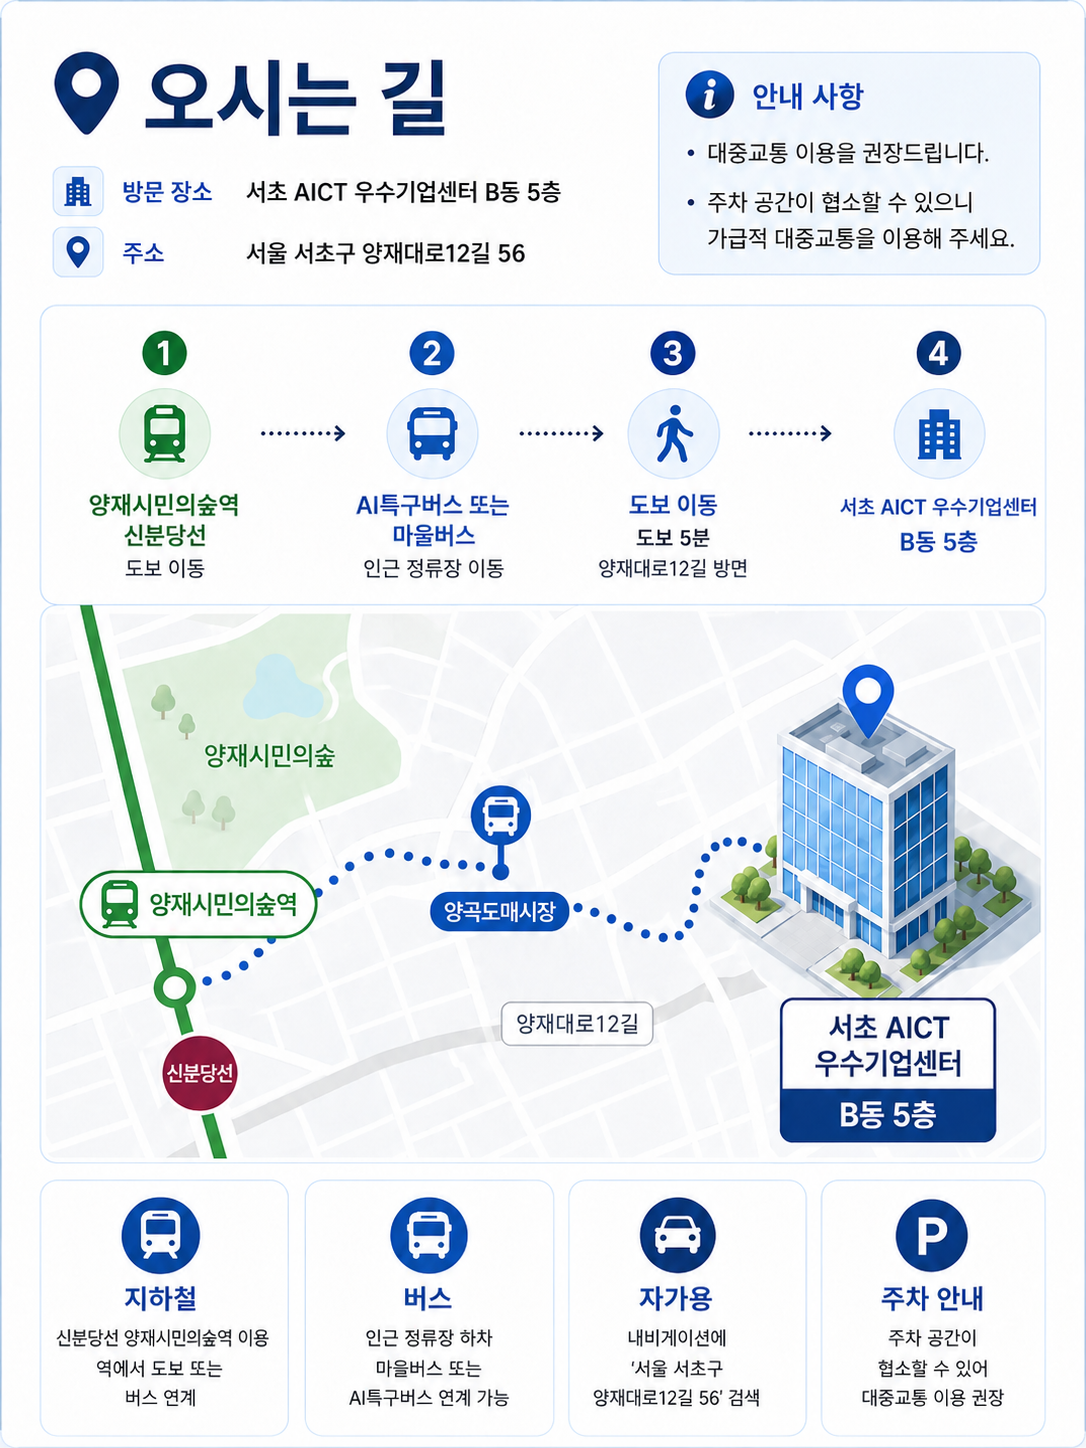
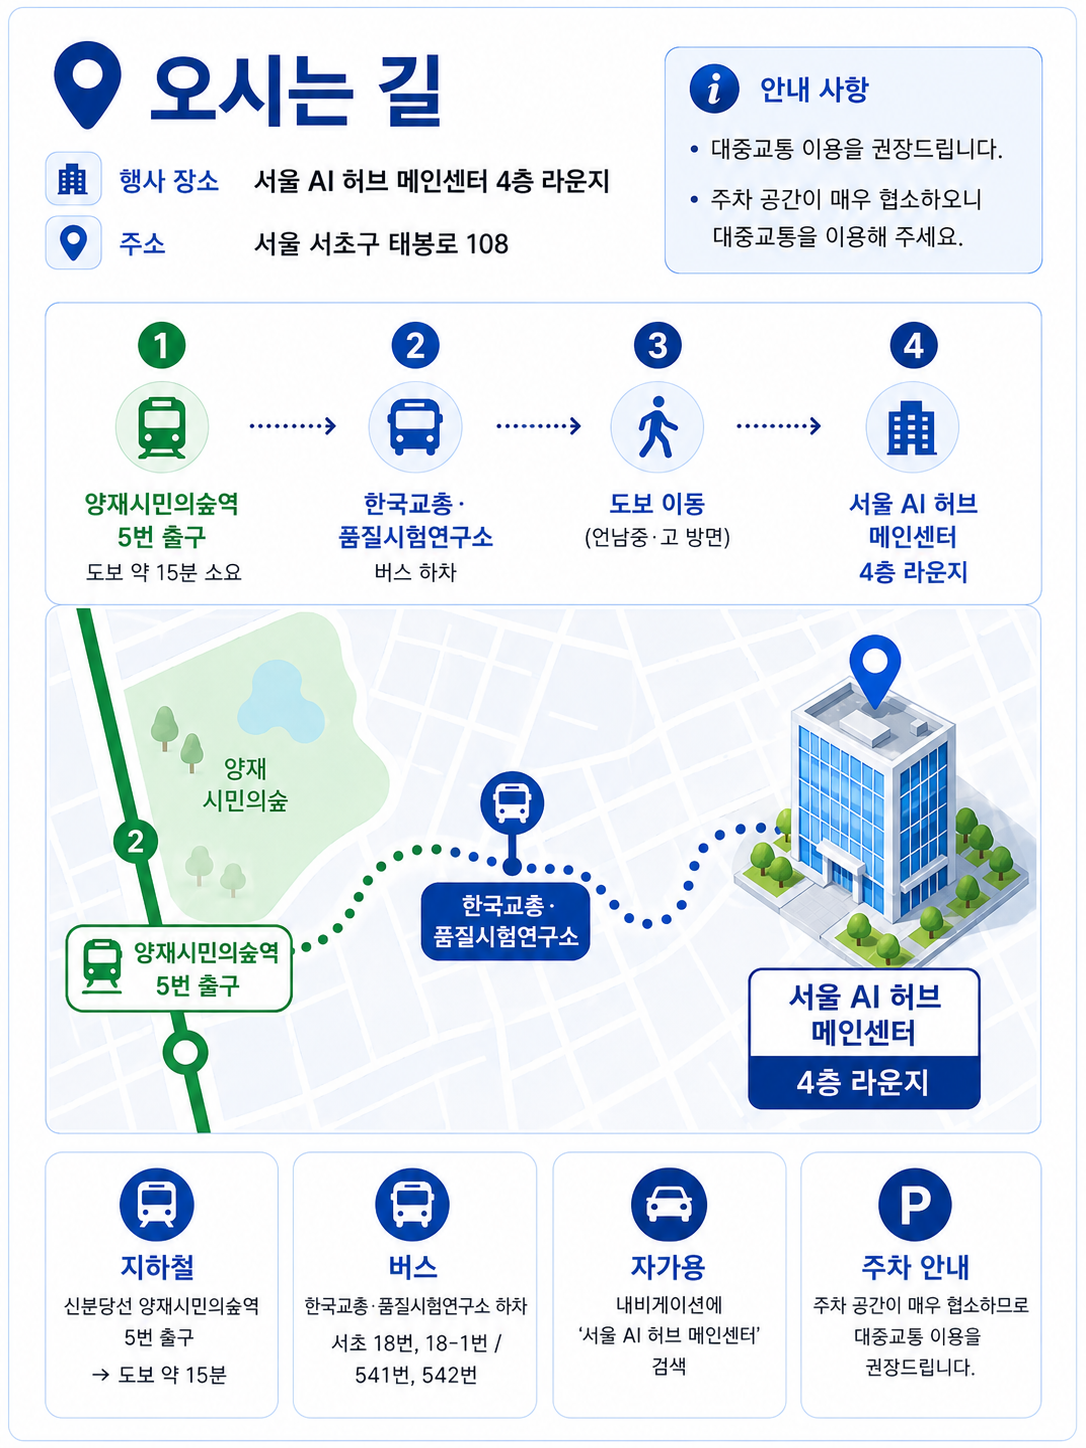
오시는 길 주소 및 레이아웃 정리

diff --git a/styles.css b/styles.css
@@ -9,6 +9,7 @@
   --bg: #f8fafc;
   --white: #fff;
   --purple: #6d35b7;
+  --frame: 1480px;
 }
 
 * { box-sizing: border-box; }
@@ -22,6 +23,13 @@ body {
 }
 a { color: inherit; text-decoration: none; }
 
+.site-header,
+main,
+.footer {
+  width: min(100%, var(--frame));
+  margin-inline: auto;
+}
+
 .site-header {
   position: sticky;
   top: 0;
@@ -30,7 +38,7 @@ a { color: inherit; text-decoration: none; }
   justify-content: space-between;
   align-items: center;
   gap: 24px;
-  padding: 18px clamp(18px, 4vw, 64px);
+  padding: 18px clamp(18px, 3vw, 44px);
   background: rgba(248,250,252,.82);
   backdrop-filter: blur(18px);
   border-bottom: 1px solid rgba(15,23,42,.08);
@@ -55,7 +63,7 @@ a { color: inherit; text-decoration: none; }
   grid-template-columns: minmax(0, .82fr) minmax(520px, 1.18fr);
   align-items: center;
   gap: clamp(32px, 6vw, 90px);
-  padding: 84px clamp(20px, 5vw, 82px) 110px;
+  padding: 84px clamp(20px, 3vw, 44px) 110px;
   background:
     radial-gradient(circle at 78% 24%, rgba(56,189,248,.2), transparent 28%),
     linear-gradient(120deg, #fff 0%, #eff6ff 52%, #f8fafc 100%);
@@ -123,7 +131,7 @@ a { color: inherit; text-decoration: none; }
 .hero-timeline strong { display: block; color: var(--navy); font-size: 16px; }
 .hero-timeline span { display: block; margin-top: 2px; color: #64748b; font-size: 11px; line-height: 1.45; }
 
-.section { padding: 110px clamp(20px, 5vw, 82px); }
+.section { padding: 110px clamp(20px, 3vw, 44px); }
 .section-heading { margin-bottom: 38px; }
 .section-heading h2 { margin: 0; font-size: clamp(34px, 5vw, 66px); line-height: 1.05; letter-spacing: -.055em; color: var(--navy); }
 
@@ -210,19 +218,77 @@ fieldset { display: grid; gap: 10px; margin: 0; padding: 18px; border: 1px solid
 fieldset label, .consent { font-weight: 700; color: #334155; }
 fieldset input, .consent input { width: auto; margin-right: 8px; }
 .form-status { margin: 0; min-height: 24px; font-weight: 900; color: var(--blue); }
-.apply-location { overflow: hidden; border: 1px solid rgba(255,255,255,.15); border-radius: 30px; background: rgba(255,255,255,.07); color: white; }
-.apply-location-heading { padding: 28px 30px 18px; }
-.apply-location-heading .eyebrow { margin-bottom: 6px; color: var(--sky); font-size: 11px; }
-.apply-location-heading h2 { margin: 0; font-size: 38px; letter-spacing: -.05em; }
-.apply-location-map { margin: 0 18px; overflow: hidden; border-radius: 20px; background: #f7fbff; }
-.apply-location-map img { display: block; width: 100%; height: auto; aspect-ratio: 2 / 1; object-fit: contain; }
-.apply-location-copy { padding: 22px 30px 30px; }
-.apply-location-copy > strong { display: block; font-size: 21px; line-height: 1.35; }
-.apply-location-copy address { margin-top: 5px; color: #cbd5e1; font-style: normal; font-size: 14px; }
-.apply-location-copy > p { margin: 18px 0 0; color: #dbeafe; font-size: 14px; }
-.location-grid { display: flex; justify-content: center; }
-.location-map { width: 100%; max-width: 920px; overflow: hidden; border-radius: 20px; }
-.location-map img { display: block; width: 100%; height: auto; }
+.location-section {
+  background:
+    radial-gradient(circle at 14% 10%, rgba(18,132,214,.08), transparent 24%),
+    linear-gradient(180deg, #ffffff 0%, #f5f9ff 100%);
+}
+.location-heading {
+  display: grid;
+  grid-template-columns: minmax(0, 1fr) auto;
+  gap: 18px;
+  align-items: end;
+}
+.location-heading h2 { margin: 0; }
+.location-summary {
+  margin: 0;
+  color: #475569;
+  font-size: 18px;
+  font-weight: 700;
+  text-align: right;
+}
+.location-info-grid {
+  display: grid;
+  grid-template-columns: repeat(3, minmax(0, 1fr));
+  gap: 18px;
+  margin-bottom: 24px;
+}
+.location-card {
+  padding: 24px 26px;
+  border: 1px solid rgba(18,132,214,.12);
+  border-radius: 26px;
+  background: rgba(255,255,255,.9);
+  box-shadow: 0 24px 56px rgba(15,23,42,.07);
+}
+.location-card-label {
+  margin: 0 0 10px !important;
+  color: var(--blue) !important;
+  font-size: 12px;
+  font-weight: 900;
+  letter-spacing: .12em;
+  text-transform: uppercase;
+}
+.location-card h3 {
+  margin: 0 0 10px;
+  color: var(--navy);
+  font-size: 24px;
+  letter-spacing: -.04em;
+}
+.location-card p {
+  margin: 0;
+  color: #334155;
+  font-size: 17px;
+  line-height: 1.65;
+}
+.location-card span {
+  display: block;
+  margin-top: 10px;
+  color: #64748b;
+  font-size: 14px;
+  line-height: 1.55;
+}
+.location-map-shell {
+  overflow: hidden;
+  border: 1px solid rgba(18,132,214,.14);
+  border-radius: 30px;
+  background: white;
+  box-shadow: 0 30px 72px rgba(15,23,42,.1);
+}
+.location-map-shell img {
+  display: block;
+  width: 100%;
+  height: auto;
+}
 .transport-notice { margin-top: 18px; padding: 17px; border-radius: 16px; color: var(--navy); background: #e7f4ff; }
 .transport-notice strong { display: block; }
 .transport-notice p { margin: 5px 0 0; color: #475569; font-size: 14px; }
@@ -276,6 +342,7 @@ fieldset input, .consent input { width: auto; margin-right: 8px; }
   .hero, .apply { grid-template-columns: 1fr; }
   .hero { min-height: auto; }
   .project-grid { grid-template-columns: 1fr 1fr; }
+  .location-info-grid { grid-template-columns: 1fr; }
 }
 @media (max-width: 640px) {
   .section { padding: 74px 18px; }
@@ -288,9 +355,11 @@ fieldset input, .consent input { width: auto; margin-right: 8px; }
   .hero-program-meta { max-width: none; margin-top: 14px; text-align: left; }
   .hero-timeline li { grid-template-columns: 1fr; gap: 5px; padding: 14px; }
   .hero-timeline span { font-size: 12px; }
-  .apply-location-heading { padding: 24px 22px 16px; }
-  .apply-location-heading h2 { font-size: 34px; }
-  .apply-location-map { margin: 0 12px; }
-  .apply-location-copy { padding: 20px 22px 24px; }
+  .location-heading { grid-template-columns: 1fr; align-items: start; }
+  .location-summary { text-align: left; font-size: 16px; }
+  .location-info-grid { grid-template-columns: 1fr; }
+  .location-card { padding: 20px 18px; }
+  .location-card h3 { font-size: 22px; }
+  .location-card p { font-size: 16px; }
   .footer { flex-direction: column; }
 }

diff --git a/index.html b/index.html
@@ -1,4 +1,4 @@
-<!doctype html>
+<!doctype html>
 <html lang="ko">
 <head>
   <meta charset="utf-8">
@@ -41,7 +41,7 @@
           </div>
           <div class="hero-program-meta">
             <strong>2026. 7. 3. 금</strong>
-            <span>서초 AICT 우수기업센터 B동 5층</span>
+            <span>서울 AI 허브 메인센터 4층 라운지</span>
           </div>
         </div>
         <ol class="hero-timeline">
@@ -136,10 +136,35 @@
     </section>
 
     <section id="location" class="section location-section">
-      <div class="location-grid">
-        <div class="location-map reveal">
-          <img src="assets/seoul-aict-center-map.png" alt="양재시민의숲역에서 서초 AICT 우수기업센터까지의 안내 약도">
+      <div class="section-heading reveal location-heading">
+        <div>
+          <p class="eyebrow">Location</p>
+          <h2>오시는 길</h2>
         </div>
+        <p class="location-summary">서울 AI 허브 메인센터 4층 라운지 · 서울 서초구 태봉로 108</p>
+      </div>
+
+      <div class="location-info-grid reveal">
+        <article class="location-card">
+          <p class="location-card-label">행사 장소</p>
+          <h3>서울 AI 허브 메인센터 4층 라운지</h3>
+          <p>서울 서초구 태봉로 108</p>
+          <span>행사 당일 안내 이미지를 기준으로 동선을 확인해 주세요.</span>
+        </article>
+        <article class="location-card">
+          <h3>대중교통</h3>
+          <p>신분당선 양재시민의숲역에서 버스 또는 택시 이용을 권장합니다.</p>
+          <span>정확한 출발 경로는 지도 앱에서 실시간으로 확인해 주세요.</span>
+        </article>
+        <article class="location-card">
+          <h3>자가용</h3>
+          <p>네비게이션에서 서울 AI 허브 메인센터 또는 서울 서초구 태봉로 108을 검색해 주세요.</p>
+          <span>행사장 주차공간이 협소해 대중교통 이용을 권장합니다.</span>
+        </article>
+      </div>
+
+      <div class="location-map-shell reveal">
+        <img src="assets/seoul-aict-center-map.png" alt="양재시민의숲역에서 서울 AI 허브 메인센터까지의 안내 약도">
       </div>
     </section>
   </main>
